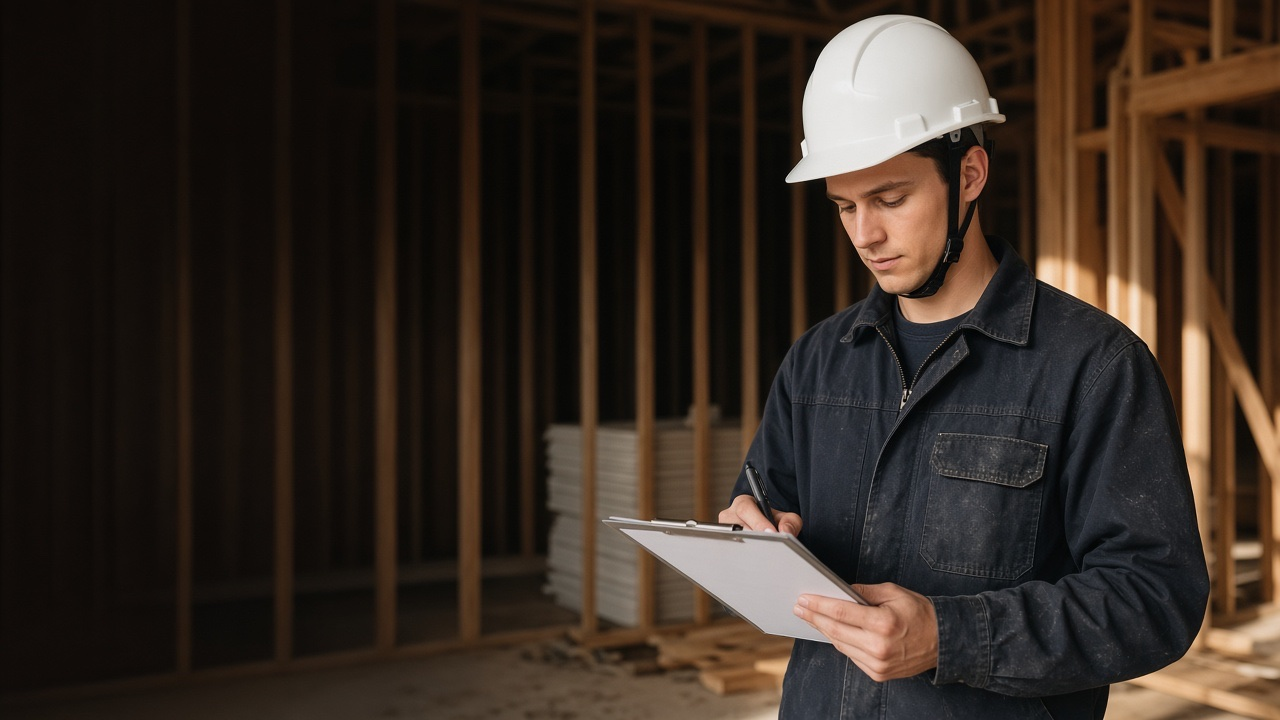
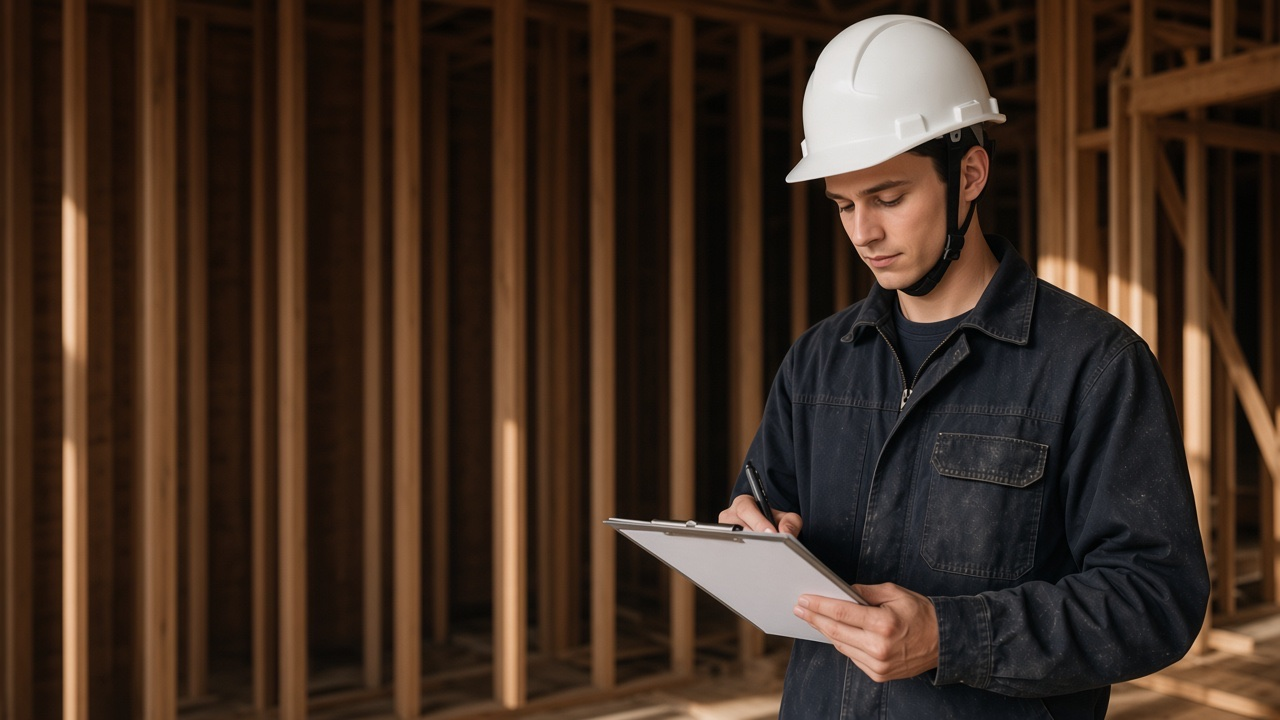
Refresh Claim/Fields/Inspect heroes with star-adjacent faces.
Keep clipboard half-body scenes per vertical; shift casts toward young Hollywood handsomeness without an identifiable celebrity likeness.

diff --git a/inspectlog/index.html b/inspectlog/index.html
@@ -10,7 +10,7 @@
   <link rel="preconnect" href="https://fonts.googleapis.com" />
   <link rel="preconnect" href="https://fonts.gstatic.com" crossorigin />
   <link href="https://fonts.googleapis.com/css2?family=Fraunces:opsz,wght@9..144,500;9..144,600&family=Manrope:wght@400;500;600;700&display=swap" rel="stylesheet" />
-  <link rel="stylesheet" href="assets/css/styles.css?v=6" />
+  <link rel="stylesheet" href="assets/css/styles.css?v=7" />
 </head>
 <body>
   <a class="skip-link" href="#main">Skip to content</a>
@@ -33,7 +33,7 @@
   <main id="main">
     <section class="hero" aria-label="InspectLog">
       <div class="hero__banner" aria-hidden="true">
-        <img src="assets/images/banner.jpg?v=6" alt="" width="1280" height="720" />
+        <img src="assets/images/banner.jpg?v=7" alt="" width="1280" height="720" />
       </div>
       <div class="hero__veil" aria-hidden="true"></div>
       <div class="hero__content" data-reveal>

diff --git a/fieldlog/index.html b/fieldlog/index.html
@@ -10,7 +10,7 @@
   <link rel="preconnect" href="https://fonts.googleapis.com" />
   <link rel="preconnect" href="https://fonts.gstatic.com" crossorigin />
   <link href="https://fonts.googleapis.com/css2?family=Fraunces:opsz,wght@9..144,500;9..144,600&family=Manrope:wght@400;500;600;700&display=swap" rel="stylesheet" />
-  <link rel="stylesheet" href="assets/css/styles.css?v=3" />
+  <link rel="stylesheet" href="assets/css/styles.css?v=4" />
 </head>
 <body>
   <a class="skip-link" href="#main">Skip to content</a>
@@ -33,7 +33,7 @@
   <main id="main">
     <section class="hero" aria-label="FieldsLog">
       <div class="hero__banner" aria-hidden="true">
-        <img src="assets/images/banner.jpg?v=3" alt="" width="1280" height="720" />
+        <img src="assets/images/banner.jpg?v=4" alt="" width="1280" height="720" />
       </div>
       <div class="hero__veil" aria-hidden="true"></div>
       <div class="hero__content" data-reveal>

diff --git a/claimlog/index.html b/claimlog/index.html
@@ -10,7 +10,7 @@
   <link rel="preconnect" href="https://fonts.googleapis.com" />
   <link rel="preconnect" href="https://fonts.gstatic.com" crossorigin />
   <link href="https://fonts.googleapis.com/css2?family=Fraunces:opsz,wght@9..144,500;9..144,600&family=Manrope:wght@400;500;600;700&display=swap" rel="stylesheet" />
-  <link rel="stylesheet" href="assets/css/styles.css?v=3" />
+  <link rel="stylesheet" href="assets/css/styles.css?v=4" />
 </head>
 <body>
   <a class="skip-link" href="#main">Skip to content</a>
@@ -33,7 +33,7 @@
   <main id="main">
     <section class="hero" aria-label="ClaimLog">
       <div class="hero__banner" aria-hidden="true">
-        <img src="assets/images/banner.jpg?v=3" alt="" width="1280" height="720" />
+        <img src="assets/images/banner.jpg?v=4" alt="" width="1280" height="720" />
       </div>
       <div class="hero__veil" aria-hidden="true"></div>
       <div class="hero__content" data-reveal>
